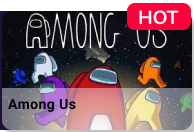
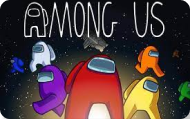
cards tendencia

diff --git a/tp2/index.html b/tp2/index.html
@@ -232,7 +232,15 @@
         <div class="carruselJuegosSugeridos">
             <h1 >Juegos Sugeridos</h1>
             <ul class="carruselUl">
-                <li class="carruselLi"> <img src="img/cards/CarruselJuegos/amongus.png"> </li>
+                <li class="carruselLi">
+                    <div class="cardChica">
+                        <img class="p" src="img/cards/CarruselJuegos/AmongUs.png">
+                        <img class="etiquetaTendencia" src="img/Tendencia.png">
+                        <div class="infocard">
+                            <p>Among Us</p>
+                        </div>
+                    </div>
+                </li>
                 <li class="carruselLi"><img src="img/cards/CarruselJuegos/candycrush.png"></li>
                 <li class="carruselLi"><img src="img/cards/CarruselJuegos/minecraft.png"></li>
                 <li class="carruselLi"><img src="img/cards/CarruselJuegos/Pou.png"></li>
@@ -246,7 +254,15 @@
         <div class="carruselMultijugador">
             <h1 >Multijugador</h1>
             <ul class="carruselUl">
-                <li class="carruselLi"> <img src="img/cards/CarruselJuegos/amongus.png"> </li>
+                <li class="carruselLi">
+                    <div class="cardChica">
+                        <img class="p" src="img/cards/CarruselJuegos/AmongUs.png">
+                        <img class="etiquetaTendencia" src="img/Tendencia.png">
+                        <div class="infocard">
+                            <p>Among Us</p>
+                        </div>
+                    </div>
+                </li>
                 <li class="carruselLi"><img src="img/cards/CarruselJuegos/sonic.png"></li>
                 <li class="carruselLi"><img src="img/cards/CarruselJuegos/Pou.png"></li>
                 <li class="carruselLi"><img src="img/cards/CarruselJuegos/4 en linea p vs g.png"></li>
@@ -263,7 +279,15 @@
                 <li class="carruselLi"><img src="img/cards/CarruselJuegos/fifa.png"></li>
                 <li class="carruselLi"> <img src="img/cards/CarruselJuegos/baskerball.png"> </li>
                 <li class="carruselLi"><img src="img/cards/CarruselJuegos/goalkeeper.png"></li>
-                <li class="carruselLi"><img src="img/cards/CarruselJuegos/supericehokey.png"></li>
+                <li class="carruselLi">
+                    <div class="cardChica">
+                        <img class="p" src="img/cards/CarruselJuegos/supericehockey.png">
+                        <img class="etiquetaTendencia" src="img/Tendencia.png">
+                        <div class="infocard">
+                            <p>Super Ice Hockey</p>
+                        </div>
+                    </div>
+                </li>
                 <li class="carruselLi"><img src="img/cards/CarruselJuegos/voley.png"></li>
                 <li class="carruselLi"><img src="img/cards/CarruselJuegos/tenismania.png"></li>
                 <li class="carruselLi"><img src="img/cards/CarruselJuegos/tabletennis.png"></li>
